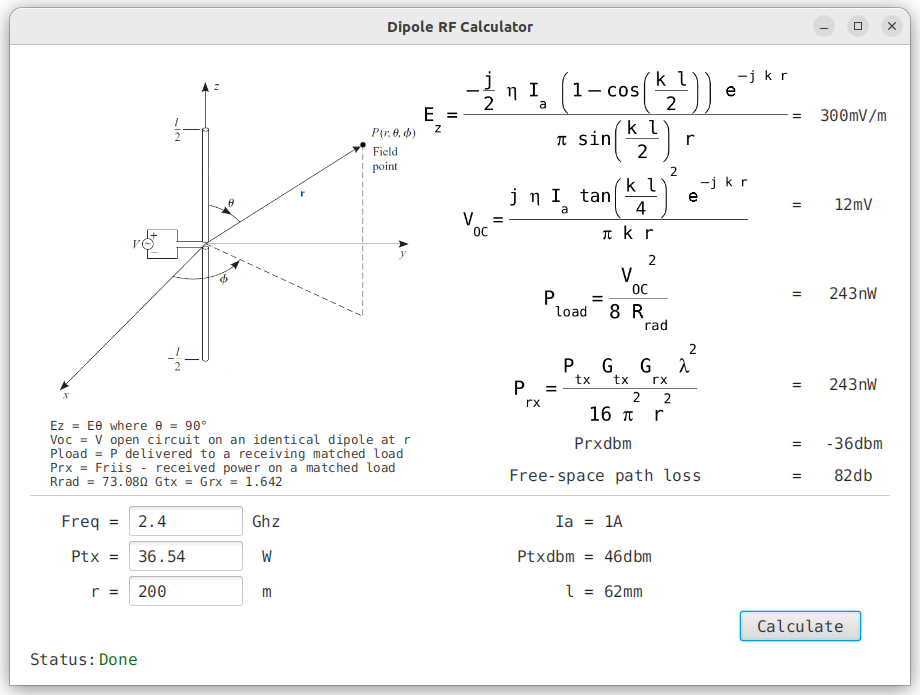
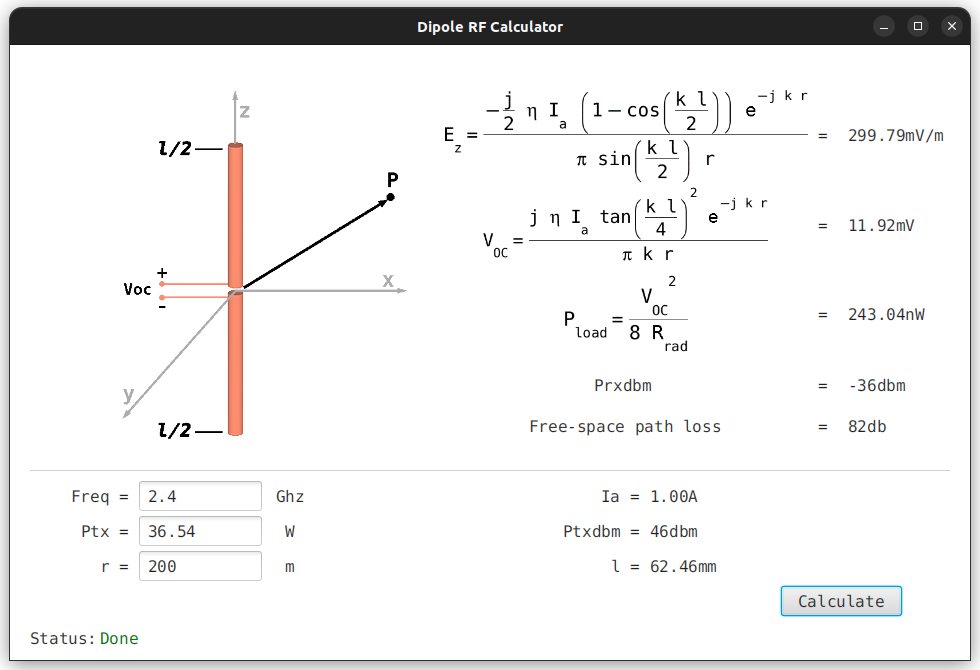
Refactoring of GUI

diff --git a/src/test/java/dipole/rf/calculator/CalculatorControllerTest.java b/src/test/java/dipole/rf/calculator/CalculatorControllerTest.java
@@ -37,13 +37,12 @@ public class CalculatorControllerTest {
         Button button = robot.lookup("#calculate").queryAs(Button.class);
         robot.clickOn(button);
 
-        Assertions.assertThat(robot.lookup("#Ia").queryAs(Label.class)).hasText("52mA");
+        Assertions.assertThat(robot.lookup("#Ia").queryAs(Label.class)).hasText("52.31mA");
         Assertions.assertThat(robot.lookup("#Ptxdbm").queryAs(Label.class)).hasText("20dbm");
-        Assertions.assertThat(robot.lookup("#l").queryAs(Label.class)).hasText("62mm");
-        Assertions.assertThat(robot.lookup("#Ez").queryAs(Label.class)).hasText("314mV/m");
-        Assertions.assertThat(robot.lookup("#VOC").queryAs(Label.class)).hasText("12mV");
-        Assertions.assertThat(robot.lookup("#Pload").queryAs(Label.class)).hasText("266nW");
-        Assertions.assertThat(robot.lookup("#Prx").queryAs(Label.class)).hasText("266nW");
+        Assertions.assertThat(robot.lookup("#l").queryAs(Label.class)).hasText("62.46mm");
+        Assertions.assertThat(robot.lookup("#Ez").queryAs(Label.class)).hasText("313.67mV/m");
+        Assertions.assertThat(robot.lookup("#VOC").queryAs(Label.class)).hasText("12.47mV");
+        Assertions.assertThat(robot.lookup("#Pload").queryAs(Label.class)).hasText("266.05nW");
         Assertions.assertThat(robot.lookup("#Prxdbm").queryAs(Label.class)).hasText("-36dbm");
         Assertions.assertThat(robot.lookup("#attenuation").queryAs(Label.class)).hasText("56db");
         Assertions.assertThat(robot.lookup("#status").queryAs(Label.class)).hasText("Done");

diff --git a/src/main/java/dipole/rf/calculator/model/DipoleModel.java b/src/main/java/dipole/rf/calculator/model/DipoleModel.java
@@ -31,10 +31,7 @@ public class DipoleModel {
      * Power on a receiving load (W)
      */
     private final String Pload;
-    /**
-     * Received power (W)
-     */
-    private final String Prx;
+
     /**
      * Received power (dbm)
      */
@@ -62,8 +59,7 @@ public class DipoleModel {
         Result Ez = RFUtils.computeEz(Ia.value(), k.value(), l.value(), r);
         Result VOC = RFUtils.computeVOC(Ia.value(), k.value(), l.value(), r);
         Result Pload = RFUtils.computePload(VOC.value());
-        Result Prx = RFUtils.computePrx(Ptx, lambda.value(), r);
-        Result Prxdbm = RFUtils.wToDbm(Prx.value());
+        Result Prxdbm = RFUtils.wToDbm(Pload.value());
         Result attenuation = new Result(Math.abs(Prxdbm.value() - Ptxdbm.value()));
 
         this.Ptxdbm = Ptxdbm.toDecimal("dbm");
@@ -72,7 +68,6 @@ public class DipoleModel {
         this.Ez = Ez.toEngineering("V/m");
         this.VOC = VOC.toEngineering("V");
         this.Pload = Pload.toEngineering("W");
-        this.Prx = Prx.toEngineering("W");
         this.Prxdbm = Prxdbm.toDecimal("dbm");
         this.attenuation = attenuation.toDecimal("db");
 
@@ -100,10 +95,6 @@ public class DipoleModel {
 
     public String getPload() {
         return Pload;
-    }
-
-    public String getPrx() {
-        return Prx;
     }
 
     public String getPrxdbm() {

diff --git a/src/main/java/dipole/rf/calculator/CalculatorController.java b/src/main/java/dipole/rf/calculator/CalculatorController.java
@@ -30,11 +30,6 @@ public class CalculatorController {
     @FXML
     private Label Pload;
     /**
-     * Received power (W)
-     */
-    @FXML
-    private Label Prx;
-    /**
      * Received power (dbm)
      */
     @FXML
@@ -105,7 +100,6 @@ public class CalculatorController {
             this.Ez.setText(dipoleModel.getEz());
             this.VOC.setText(dipoleModel.getVOC());
             this.Pload.setText(dipoleModel.getPload());
-            this.Prx.setText(dipoleModel.getPrx());
             this.Prxdbm.setText(dipoleModel.getPrxdbm());
             this.attenuation.setText(dipoleModel.getAttenuation());
 

diff --git a/src/main/java/dipole/rf/calculator/utils/RFUtils.java b/src/main/java/dipole/rf/calculator/utils/RFUtils.java
@@ -117,17 +117,6 @@ public class RFUtils {
         return new Result(Math.pow(VOC, 2) / (8 * R_RAD));
     }
 
-    /**
-     * Calculate received power by a receiving antenna (W) via Friis formula
-     *
-     * @param Ptx    transmit power
-     * @param lambda wavelength
-     * @param r      distance point from the transmit antenna
-     * @return Result
-     */
-    public static Result computePrx(double Ptx, double lambda, double r) {
-        return new Result(Ptx * GTX * GRX * Math.pow((lambda / (4 * Math.PI * r)), 2));
-    }
 
     /**
      * Convert W to decibel milliwatt (dbm)

diff --git a/src/main/java/dipole/rf/calculator/CalculatorApplication.java b/src/main/java/dipole/rf/calculator/CalculatorApplication.java
@@ -17,7 +17,7 @@ public class CalculatorApplication extends Application {
     public void start(Stage stage) throws IOException {
         FXMLLoader fxmlLoader = new FXMLLoader(CalculatorApplication.class.getResource("dipole-view.fxml"));
         final String dipoleCss = getClass().getResource("css/dipole.css").toExternalForm();
-        Scene scene = new Scene(fxmlLoader.load(), 900, 640);
+        Scene scene = new Scene(fxmlLoader.load());
         scene.getStylesheets().add(dipoleCss);
         stage.setTitle("Dipole RF Calculator");
         stage.setScene(scene);

diff --git a/src/main/java/dipole/rf/calculator/utils/Result.java b/src/main/java/dipole/rf/calculator/utils/Result.java
@@ -54,7 +54,7 @@ public record Result(double value) {
 
         if (index >= 0 && index < PREFIX_ARRAY.length) {
             // If a prefix exists use it to create the correct string
-            return String.format("%.0f%s", val_scaled, PREFIX_ARRAY[index]);
+            return String.format("%.2f%s", val_scaled, PREFIX_ARRAY[index]);
         } else {
             // If no prefix exists just make a string of the form 000e000
             return String.format("%.0fe%d", val_scaled, count * 3);

diff --git a/README.md b/README.md
@@ -6,7 +6,6 @@ Dipole RF Calculator
 Calculates Ez field from a half-wave dipole antenna at distance r.<br/>
 Calculates VOC (V open circuit) from the incident field Ez on an identical receiving dipole antenna at distance r. <br/>
 Calculates Pload (power delivered to a perfectly matched load) by the incident field Ez on an identical receiving dipole antenna at distance r. <br/>
-Calculates Prx (power received to a perfectly matched load) via Friis formula.
 
 ### Other features
 Calculates dipole length from input frequency for a quick antenna design.<br/>
@@ -19,7 +18,7 @@ Computed results are displayed in engineering format.<br/>
 First the following assumptions are made:
 * dipole antenna has a half-wave length meaning radiation resistance Rrad = 73.08 &#937;.
 * Ez represents the electric field in Cartesian coordinates  and is identical with E&#952; with &#952;=90&#176; in spherical coordinates.
-* VOC, Pload and Prx are calculated on an identical receiving dipole antenna and polarization at distance r.
+* VOC and Pload are calculated on an identical receiving dipole antenna and polarization at distance r.
 * both Tx and Rx dipoles have a gain of 2.15db or 1.642.
 
 Ez formula below contain the classic Ia current, space impedance and decreasing with distance r.<br>
@@ -36,16 +35,9 @@ Pload formula below is constructed from converting to rms and perfectly matching
 <img src="src/main/resources/dipole/rf/calculator/images/half-dipole4.gif" width="140">
 <br/>
 
-### Verification 1 ###
-Friis formula below is used to verify all calculations above.<br/>
-It takes into consideration both dipole's effective aperture area.<br/>
-Given freq=2.4GHz, Ptx=36.54W, r=200m our calculator gives Pload=243nW. Using the Friis formula below we also get Prx=243nW.<br> 
-<img src="src/main/resources/dipole/rf/calculator/images/half-dipole5.gif" width="200">
-<br/>
-
-### Verification 2 ###
+### Verification ###
 CST studio was used to calculate the electric field for freq=2.4GHz, Ptx=36.54W, r=200m.<br/>
-This resulted in 0.2989V/m (screenshot below) while our application returned 0.3V/m (see screenshot at the end of this file) which is pretty good for our sinusoidal current distribution approximation.<br/>
+This resulted in 0.2989V/m (screenshot below) while our application returned 0.2997V/m (see screenshot at the end of this file)<br/>
 ![](assets/images/cst.png)
 <br/>
 
